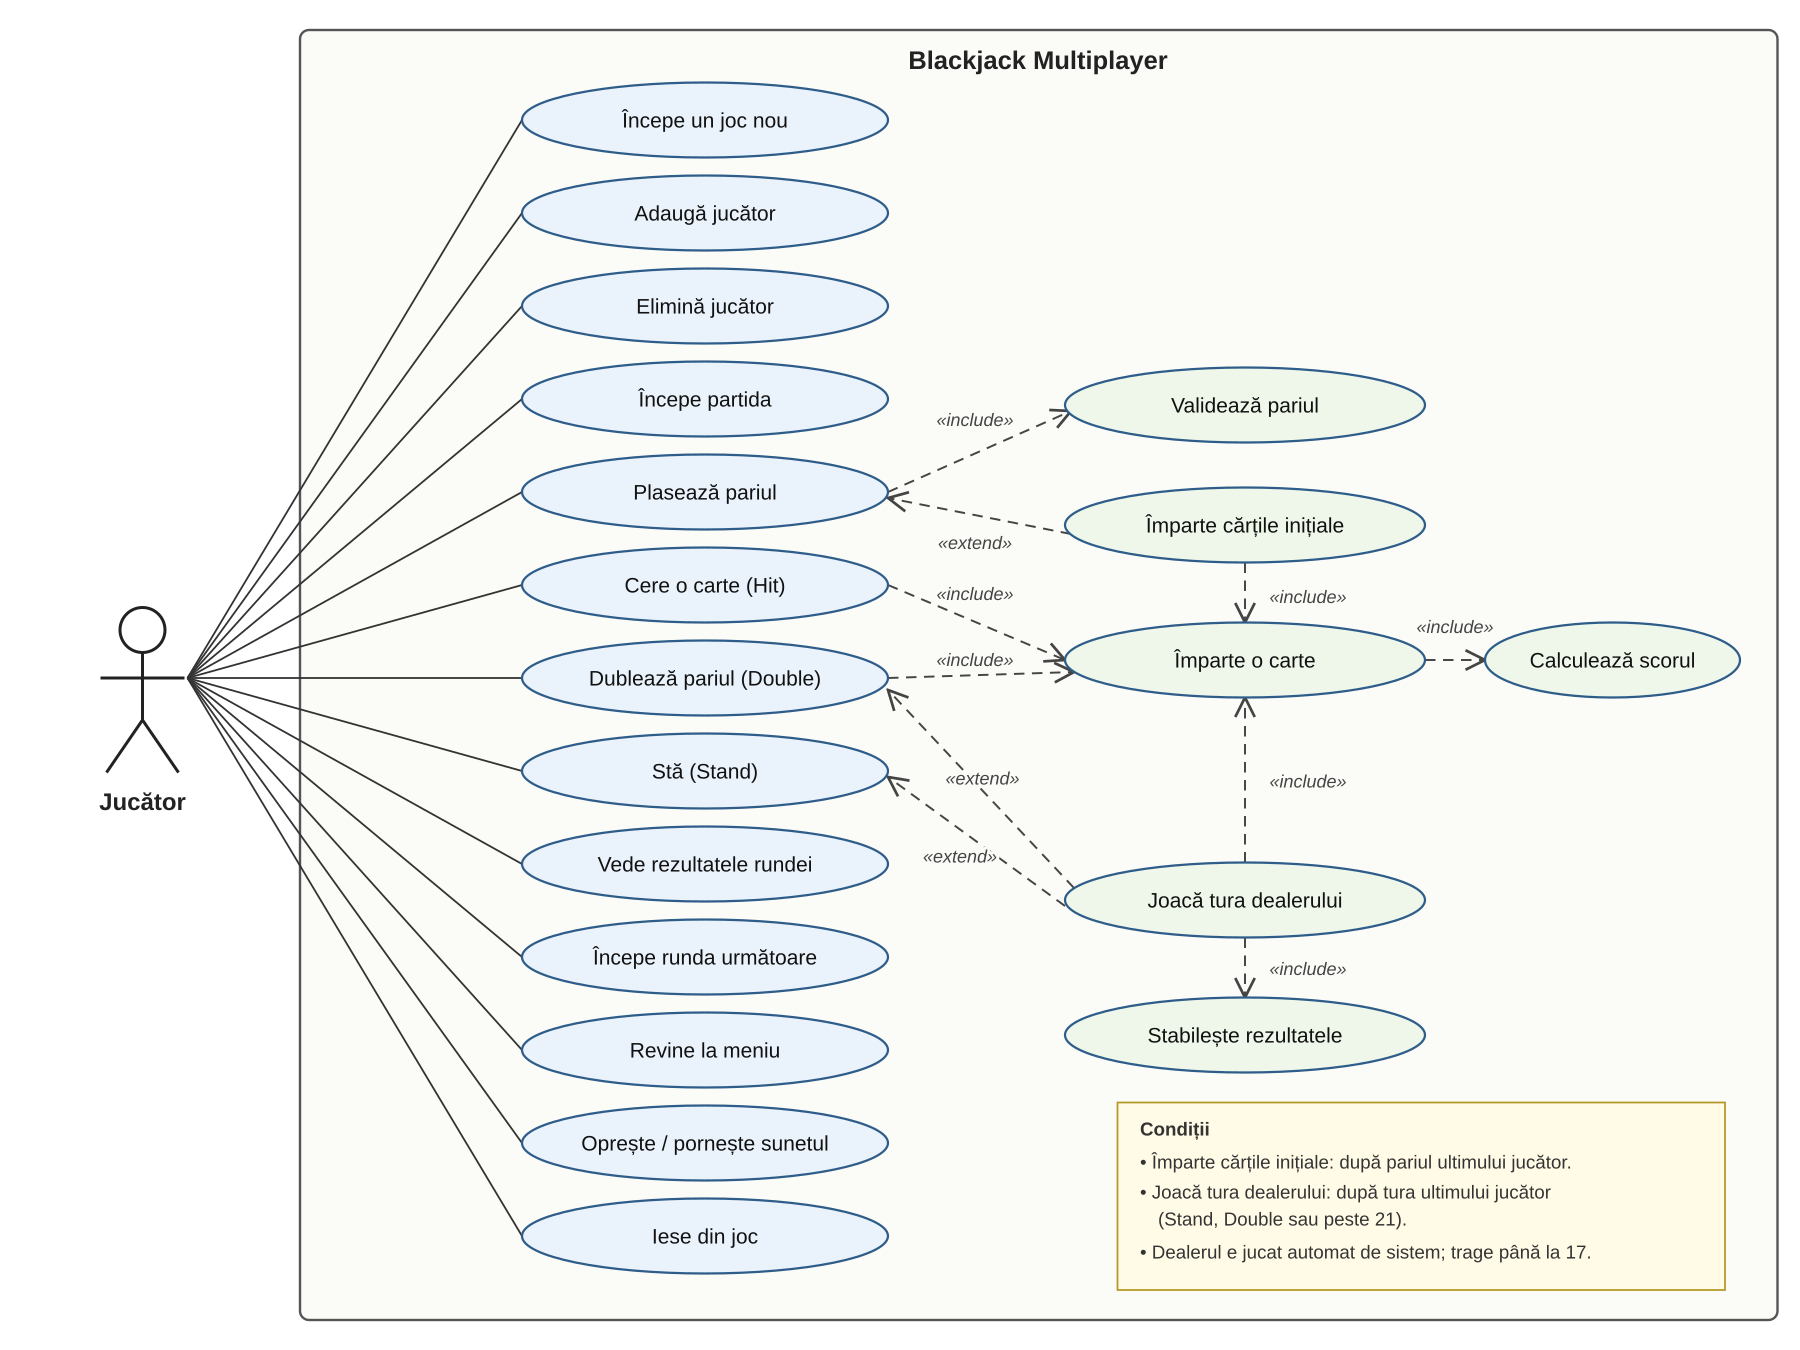
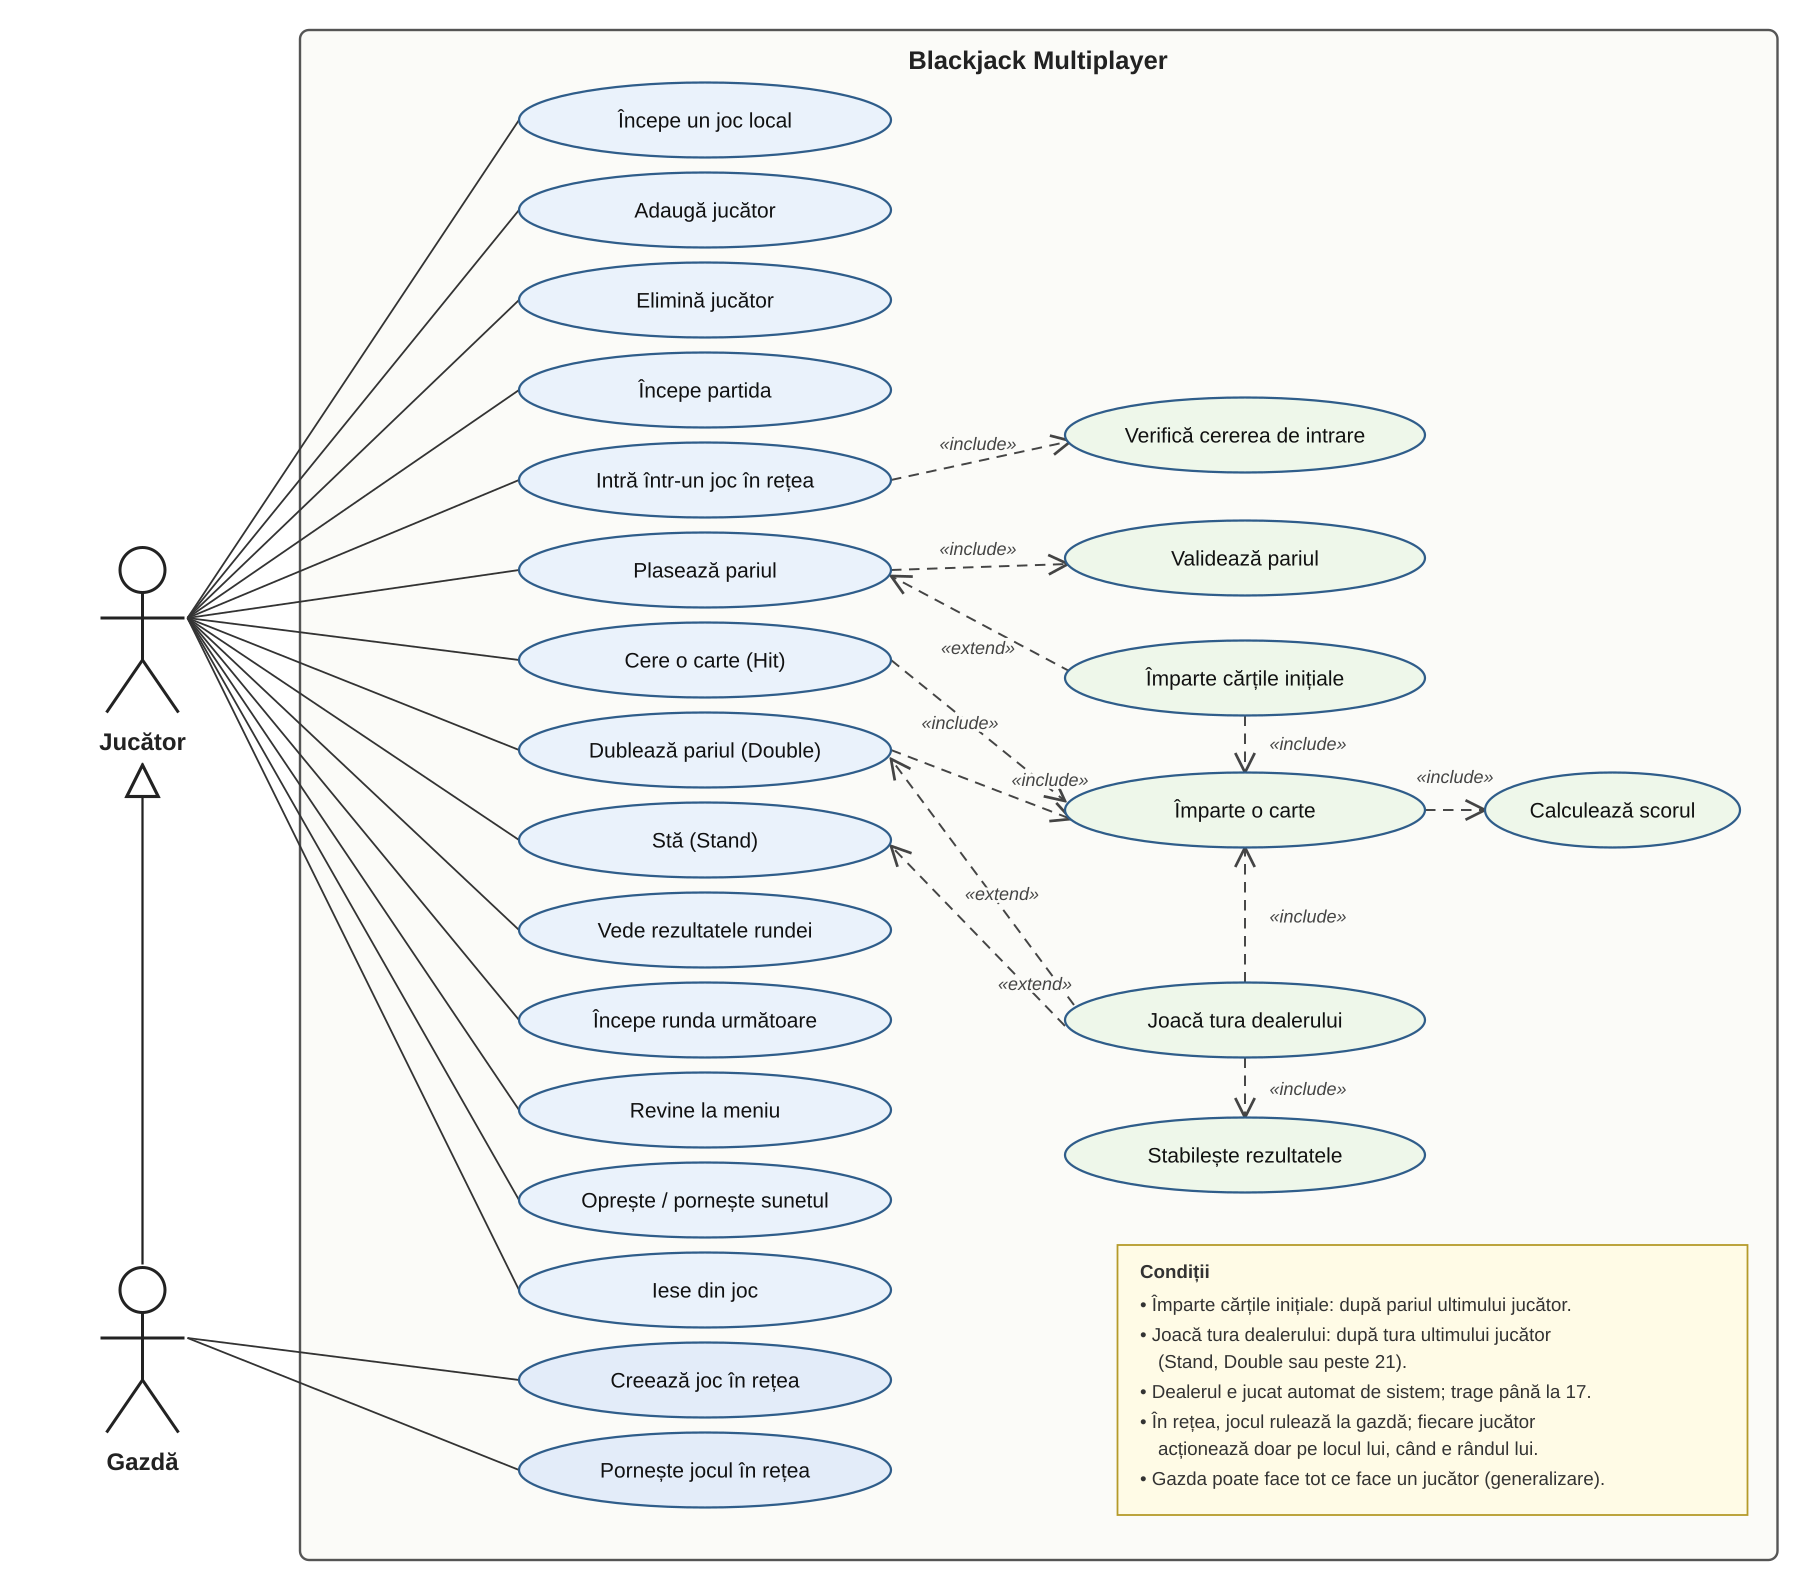
Add network play to the Use Case Diagram
New Host actor (a specialised Player) with Create network game and
Start network game, Join a network game for players, and the internal
Check join request case done by the host.

diff --git a/docs/uml/README.md b/docs/uml/README.md
@@ -13,8 +13,11 @@ magick -density 144 use_case_diagram.svg use_case_diagram.png
 
 ### Actori
 
-- **Jucător**: omul de la calculator. Jocul e multiplayer pe același calculator (1–4 jucători),
-  deci fiecare jucător folosește aceleași acțiuni când îi vine rândul.
+- **Jucător**: un om care joacă. Jocul e multiplayer în două feluri: 1–4 jucători la același
+  calculator, pe rând, sau 2–4 jucători în rețea, fiecare de pe calculatorul lui.
+- **Gazdă**: jucătorul care creează jocul în rețea. E un caz particular de Jucător
+  (generalizare: săgeata cu triunghi gol): poate face tot ce face un jucător, plus să creeze și
+  să pornească jocul în rețea. Jocul real rulează pe calculatorul ei.
 - **Dealerul** nu e actor, pentru că îl joacă sistemul automat. Apare ca un caz de utilizare
   intern, „Joacă tura dealerului”.
 
@@ -22,10 +25,11 @@ magick -density 144 use_case_diagram.svg use_case_diagram.png
 
 | Caz | Unde în aplicație | Descriere |
 |---|---|---|
-| Începe un joc nou | Meniu → „Joacă” | Deschide lobby-ul. |
+| Începe un joc local | Meniu → „Joacă” | Deschide lobby-ul pentru jucătorii de la acest calculator. |
 | Adaugă jucător | Lobby | Scrie un nume și îl adaugă. Numele trebuie să fie unic, iar la masă încap maxim 4 jucători. |
 | Elimină jucător | Lobby → „X” | Scoate un jucător din listă. |
 | Începe partida | Lobby → „Start” | Se așază la masă jucătorii din listă. Începe prima rundă. |
+| Intră într-un joc în rețea | Meniu → „Intră într-un joc” | Scrie numele și adresa gazdei și se conectează; apoi așteaptă ca gazda să pornească jocul. La masă joacă doar pe locul lui. |
 | Plasează pariul | Panoul de pariuri | Alege suma din jetoane și confirmă. Pariurile se pun pe rând. |
 | Cere o carte (Hit) | Masă → Hit / H | Primește încă o carte. Peste 21, rândul trece mai departe. |
 | Dublează pariul (Double) | Masă → Double / D | Doar cu primele 2 cărți. Dublează pariul, primește exact o carte, apoi rândul trece mai departe. |
@@ -36,10 +40,18 @@ magick -density 144 use_case_diagram.svg use_case_diagram.png
 | Oprește / pornește sunetul | Tasta M | Oriunde în aplicație. |
 | Iese din joc | Meniu → „Ieșire” | Închide aplicația. |
 
+### Cazuri de utilizare ale gazdei
+
+| Caz | Unde în aplicație | Descriere |
+|---|---|---|
+| Creează joc în rețea | Meniu → „Creează joc în rețea” | Scrie numele și creează jocul; vede adresa pe care o spune celorlalți și lista celor care au intrat. |
+| Pornește jocul în rețea | Lobby-ul gazdei → „Start” | Cu cel puțin încă un jucător intrat. Toți trec la masă. |
+
 ### Cazuri interne (le face sistemul)
 
 | Caz | Relație | Descriere |
 |---|---|---|
+| Verifică cererea de intrare | «include» în Intră într-un joc în rețea | Gazda acceptă jucătorul doar dacă are aceeași versiune a jocului, mai e loc la masă și numele e bun și nefolosit. |
 | Validează pariul | «include» în Plasează pariul | Pariul trebuie să fie între minim și maxim și să nu depășească banii jucătorului. |
 | Împarte cărțile inițiale | «extend» la Plasează pariul | După pariul ultimului jucător: câte o carte fiecăruia, apoi dealerului, de două ori. A doua carte a dealerului e cu fața în jos. |
 | Împarte o carte | «include» în Hit, Double, cărțile inițiale și tura dealerului | Scoate o carte din pachet și o dă cuiva. |
